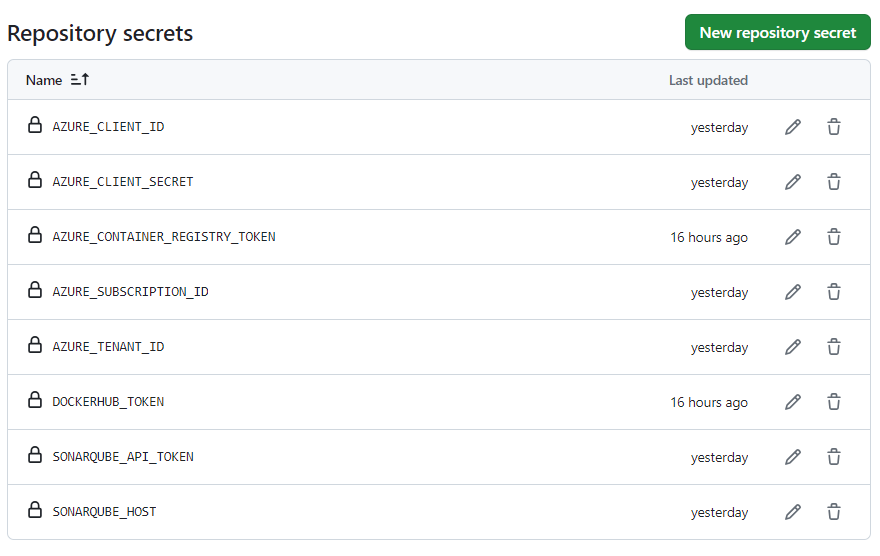
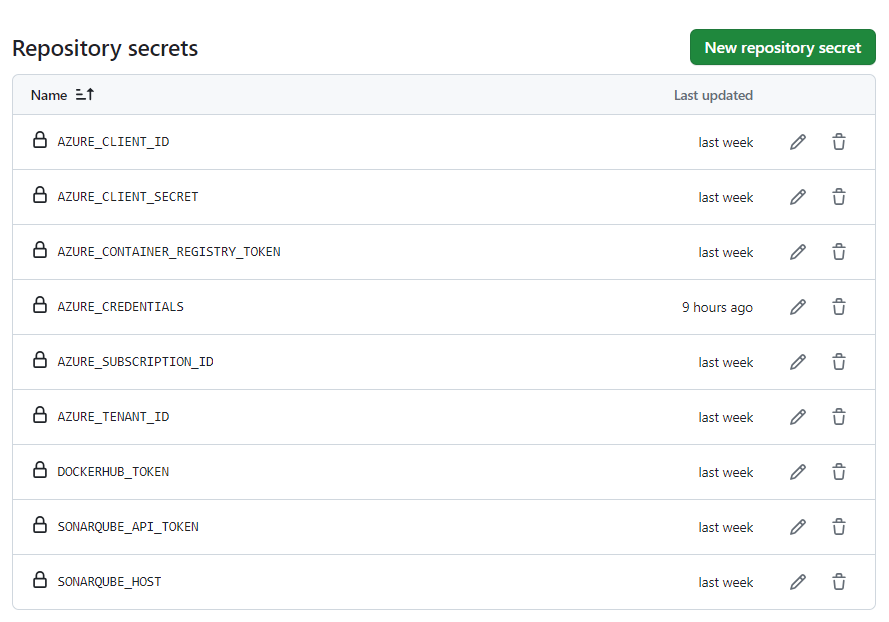
ci(ghcr.io): refactoring azure cli login + docs

diff --git a/README.md b/README.md
@@ -7,26 +7,21 @@ Template Java Gradle para GitHub Actions, com as configurações de:
 - Docker (build, trivy scan, push) - _ghcr.io, dockerhub, azurecr.io_
 - Terraform (Azure Web App for Containers)
 
-A ideia deste template é tornar uma aplicação Java Gradle (Spring Boot) plug-and-play com a pipeline descrita anteriormente.
+A ideia deste template é tornar uma aplicação Java Gradle (Spring Boot) plug-and-play com a pipeline proposta.
 
 # Sobre
 
+## Pipeline
+
 ![template-hld](./screenshots/template-hld.png)
 
+# Menu
 
-# Status Badges
-
-[![Build](https://github.com/rapharw/ghactions-java-gradle-webappforcontainers/actions/workflows/build.yml/badge.svg)](https://github.com/rapharw/ghactions-java-gradle-webappforcontainers/actions/workflows/build.yml)
-
-[![Build and Tests](https://github.com/rapharw/ghactions-java-gradle-webappforcontainers/actions/workflows/build-and-tests.yml/badge.svg)](https://github.com/rapharw/ghactions-java-gradle-webappforcontainers/actions/workflows/build-and-tests.yml)
-
-[![SonarQube](https://github.com/rapharw/ghactions-java-gradle-webappforcontainers/actions/workflows/sonarqube.yml/badge.svg)](https://github.com/rapharw/ghactions-java-gradle-webappforcontainers/actions/workflows/sonarqube.yml)
-
-[![Docker](https://github.com/rapharw/ghactions-java-gradle-webappforcontainers/actions/workflows/docker.yml/badge.svg)](https://github.com/rapharw/ghactions-java-gradle-webappforcontainers/actions/workflows/docker.yml)
-
-[![Create Azure App Service (Web App for Containers)](https://github.com/rapharw/ghactions-java-gradle-webappforcontainers/actions/workflows/az-webappforcontainers-create.yml/badge.svg)](https://github.com/rapharw/ghactions-java-gradle-webappforcontainers/actions/workflows/az-webappforcontainers-create.yml)
-
-[![Destroy Azure App Service (Web App for Containers)](https://github.com/rapharw/ghactions-java-gradle-webappforcontainers/actions/workflows/az-webappforcontainers-destroy.yml/badge.svg)](https://github.com/rapharw/ghactions-java-gradle-webappforcontainers/actions/workflows/az-webappforcontainers-destroy.yml)
+- [Sobre](#sobre)
+- [Tecnologias](#tecnologias)
+- [Workflows Status](#workflows-status)
+- [Instalação](#instalação)
+  - [GitHub Actions (Secrets e Variables)](#github-actions-secrets-e-variables)
 
 # Tecnologias
 
@@ -34,17 +29,45 @@ A ideia deste template é tornar uma aplicação Java Gradle (Spring Boot) plug-
 - Gradle
 - Spring Boot
 - GitHub Actions
-- SonarQube (9.9-community)
+- SonarQube
 - Docker
 - Aqua Trivy
+- Copacetic (apenas para ghcr.io)
 - Terraform
 - Azure (Web App for Containers)
 
-# GitHub Actions 
 
-## Secrets e Variables
+# Workflows Status
 
-Criar as seguintes Secrets e Variables no GitHub:
+## Build e Testes
+
+[![Build](https://github.com/rapharw/ghactions-java-gradle-webappforcontainers/actions/workflows/build.yml/badge.svg)](https://github.com/rapharw/ghactions-java-gradle-webappforcontainers/actions/workflows/build.yml)
+
+[![Build and Tests](https://github.com/rapharw/ghactions-java-gradle-webappforcontainers/actions/workflows/build-and-tests.yml/badge.svg)](https://github.com/rapharw/ghactions-java-gradle-webappforcontainers/actions/workflows/build-and-tests.yml)
+
+## SonarQube 
+[![SonarQube](https://github.com/rapharw/ghactions-java-gradle-webappforcontainers/actions/workflows/sonarqube.yml/badge.svg)](https://github.com/rapharw/ghactions-java-gradle-webappforcontainers/actions/workflows/sonarqube.yml)
+
+## Docker
+
+[![Docker](https://github.com/rapharw/ghactions-java-gradle-webappforcontainers/actions/workflows/docker.yml/badge.svg)](https://github.com/rapharw/ghactions-java-gradle-webappforcontainers/actions/workflows/docker.yml)
+
+## Terraform
+
+[![(azurecr.io) Create Azure App Service (Web App for Containers)](https://github.com/rapharw/ghactions-java-gradle-webappforcontainers/actions/workflows/az-webappforcontainers-create-azurecrio.yml/badge.svg)](https://github.com/rapharw/ghactions-java-gradle-webappforcontainers/actions/workflows/az-webappforcontainers-create-azurecrio.yml)
+
+[![(docker.io) Create Azure App Service (Web App for Containers)](https://github.com/rapharw/ghactions-java-gradle-webappforcontainers/actions/workflows/az-webappforcontainers-create-dockerhub.yml/badge.svg)](https://github.com/rapharw/ghactions-java-gradle-webappforcontainers/actions/workflows/az-webappforcontainers-create-dockerhub.yml)
+
+[![(ghcr.io) Create Azure App Service (Web App for Containers)](https://github.com/rapharw/ghactions-java-gradle-webappforcontainers/actions/workflows/az-webappforcontainers-create-ghcrio.yml/badge.svg)](https://github.com/rapharw/ghactions-java-gradle-webappforcontainers/actions/workflows/az-webappforcontainers-create-ghcrio.yml)
+
+[![Destroy Azure App Service (Web App for Containers)](https://github.com/rapharw/ghactions-java-gradle-webappforcontainers/actions/workflows/az-webappforcontainers-destroy.yml/badge.svg)](https://github.com/rapharw/ghactions-java-gradle-webappforcontainers/actions/workflows/az-webappforcontainers-destroy.yml)
+
+
+# Instalação
+
+## GitHub Actions (Secrets e Variables)
+
+Criar as seguintes _Secrets_ e _Variables_ no **GitHub**:
 
 ![secrets.png](screenshots/secrets.png)
 
@@ -54,19 +77,25 @@ Criar as seguintes Secrets e Variables no GitHub:
 
 ## SonarQube
 
-Configurar o `SONARQUBE_HOST` e `SONARQUBE_API_TOKEN` habilitará a aplicação de submeter para scan de anáise de código.
+Configurar as _Secrets_ `SONARQUBE_HOST` e `SONARQUBE_API_TOKEN` habilitará o scan de anáise de código.
 
-## Workflows
+**OBS**: Necessário criar o arquivo `sonar-project.properties`, para que o SonarQube funcione devidamente.
 
-**OBS**: Para criar um novo workflow, basta criar um arquivo `.yml` na pasta `.github/workflows/` do seu repositório, e configurá-lo apropriadamente.
+## GitHub Workflow Permissions (Actions)
+
+Habilitar esta opção para que o `GITHUB_TOKEN` possua acesso dentro da pipeline. 
+
+![docker-workflow-permissions.png](./screenshots/docker-workflow-permissions.png)
+
+## Workflows - TD;DR
 
 A seguir encontram-se os workflows existentes.
 
-### Build
+#### Build
 
 Arquivo `build.yml`
 
-### Build e Testes com Coverage
+#### Build e Testes com Coverage
 
 Arquivo `build-and-tests.yml`
 
@@ -74,7 +103,7 @@ Arquivo `build-and-tests.yml`
 
 - JaCoCo Report Tests configurado (ver `build.gradle`)
 
-### Build, Testes com Coverage e SonarQube
+#### Build, Testes com Coverage e SonarQube
 
 Arquivo `sonarqube.yml`
 
@@ -84,9 +113,17 @@ Arquivo `sonarqube.yml`
 - Secrets configuradas (`SONARQUBE_API_TOKEN`, `SONARQUBE_HOST`)
 - Arquivo `sonar-project.properties` configurado
 
-### Build e Docker (Login, Build, Scan - _Aqua Trivy_, e Push)
+#### Build e Docker (Login, Build, Scan - _Aqua Trivy_, e Push)
 
-Este exemplo utiliza `CONTAINER REGISTRY` dos providers abaixo, para armazenamento das imagens de container:
+Utiliza-se de `CONTAINER REGISTRY` dos providers _ghcr.io, dockerhub, azurecr.io_, para armazenamento das imagens de container:
+
+###### Workflow execution
+
+Ao executar o workflow `Docker`, selecione qual `Container Registry` será armazenada a imagem de container: 
+
+![workflows-docker-inputs.png](./screenshots/workflows-docker-inputs.png)
+
+###### Resultado 
 
 - GitHub (`ghcr.io`)
    ![container-registry-github.png](./screenshots/container-registry-github.png)
@@ -95,9 +132,9 @@ Este exemplo utiliza `CONTAINER REGISTRY` dos providers abaixo, para armazenamen
 - Azure (`azurecr.io`)
    ![container-registry-acr.png](./screenshots/container-registry-acr.png)
 
-#### Habilitar Workflow Permissions
+#### Ver mais
 
-![docker-workflow-permissions.png](./screenshots/docker-workflow-permissions.png)
+Para criar um novo workflow, basta criar um arquivo `.yml` na pasta `.github/workflows/` do seu repositório, e configurá-lo apropriadamente.
 
 ### Terraform (Criar e Destruir Azure Web App for Containers)
 
@@ -105,8 +142,7 @@ Para executar o workflow de criação IaC, informar os seguintes inputs:
 
 ![workflow-tf-azure.png](./screenshots/workflow-tf-azure.png)
 
-
-## Status Badge (workflows)
+### Criar Status Badge (workflows)
 
 Para criar um status badge, siga os passos abaixo, e inclua o código gerado no seu `README.md`
 
